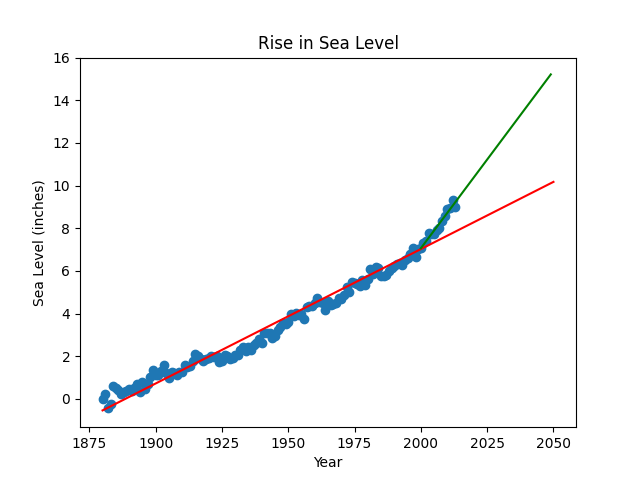
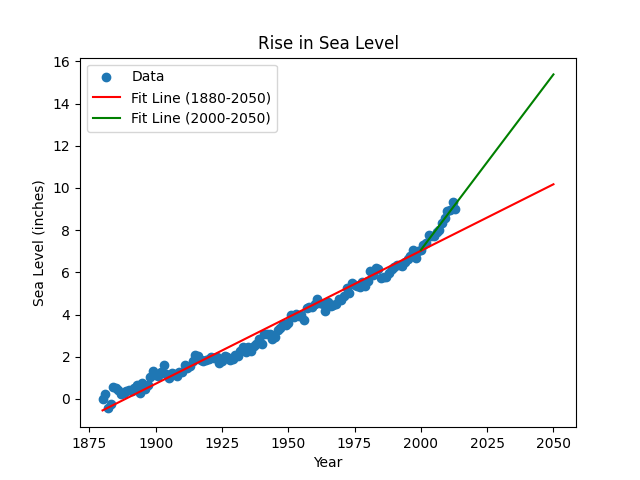
final

diff --git a/sea_level_predictor.py b/sea_level_predictor.py
@@ -9,30 +9,30 @@ def draw_plot():
     x = df['Year']
 
     # Create scatter plot
-    fig, ax= plt.subplots()
-    plt.scatter(x,y)
+    fig, ax = plt.subplots()
+    ax.scatter(x, y, label='Data')
 
     # Create first line of best fit
     res = linregress(x, y)
-    print(res)
-    x_pred = pd.Series([i for i in range(1880, 2051)])
-    y_pred = res.slope*x_pred + res.intercept
-    plt.plot(x_pred, y_pred, 'r')
+    x_pred = range(1880, 2051)
+    y_pred = res.slope * pd.Series(x_pred) + res.intercept
+    ax.plot(x_pred, y_pred, 'r', label='Fit Line (1880-2050)')
 
     # Create second line of best fit
-    new_df = df.loc[df['Year'] >= 2000]
+    new_df = df[df['Year'] >= 2000]
     new_x = new_df['Year']
     new_y = new_df['CSIRO Adjusted Sea Level']
     res_2 = linregress(new_x, new_y)
-    x_pred2 = pd.Series([i for i in range(2000,2050)])
-    y_pred2 = res_2.slope*x_pred2 + res_2.intercept
-    plt.plot(x_pred2, y_pred2, 'green')
+    x_pred2 = range(2000, 2051)
+    y_pred2 = res_2.slope * pd.Series(x_pred2) + res_2.intercept
+    ax.plot(x_pred2, y_pred2, 'green', label='Fit Line (2000-2050)')
 
-    # Add labels and title
+    # Add labels, title, and legend
     ax.set_xlabel('Year')
     ax.set_ylabel('Sea Level (inches)')
     ax.set_title('Rise in Sea Level')
-    
+    ax.legend()
+
     # Save plot and return data for testing (DO NOT MODIFY)
     plt.savefig('sea_level_plot.png')
     return plt.gca()
